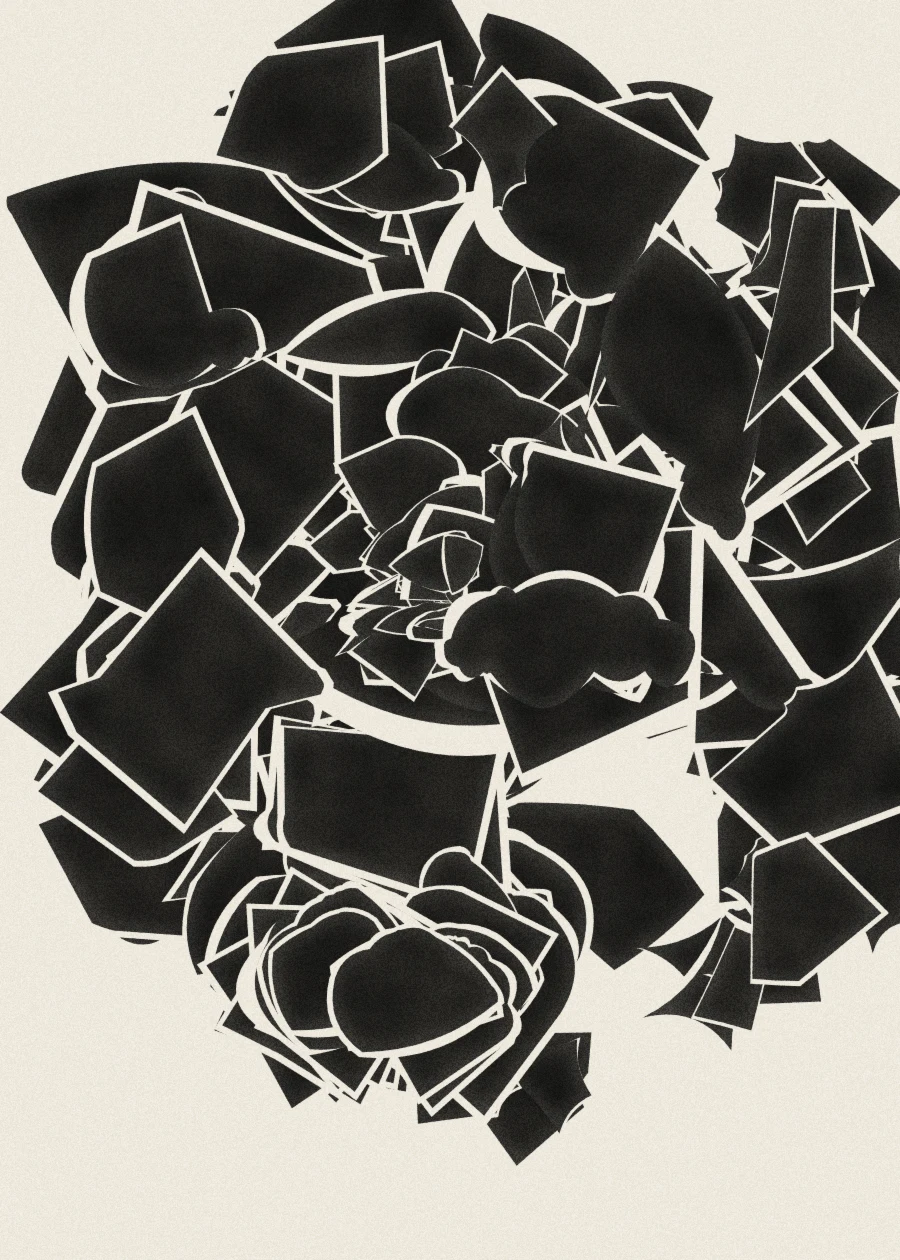
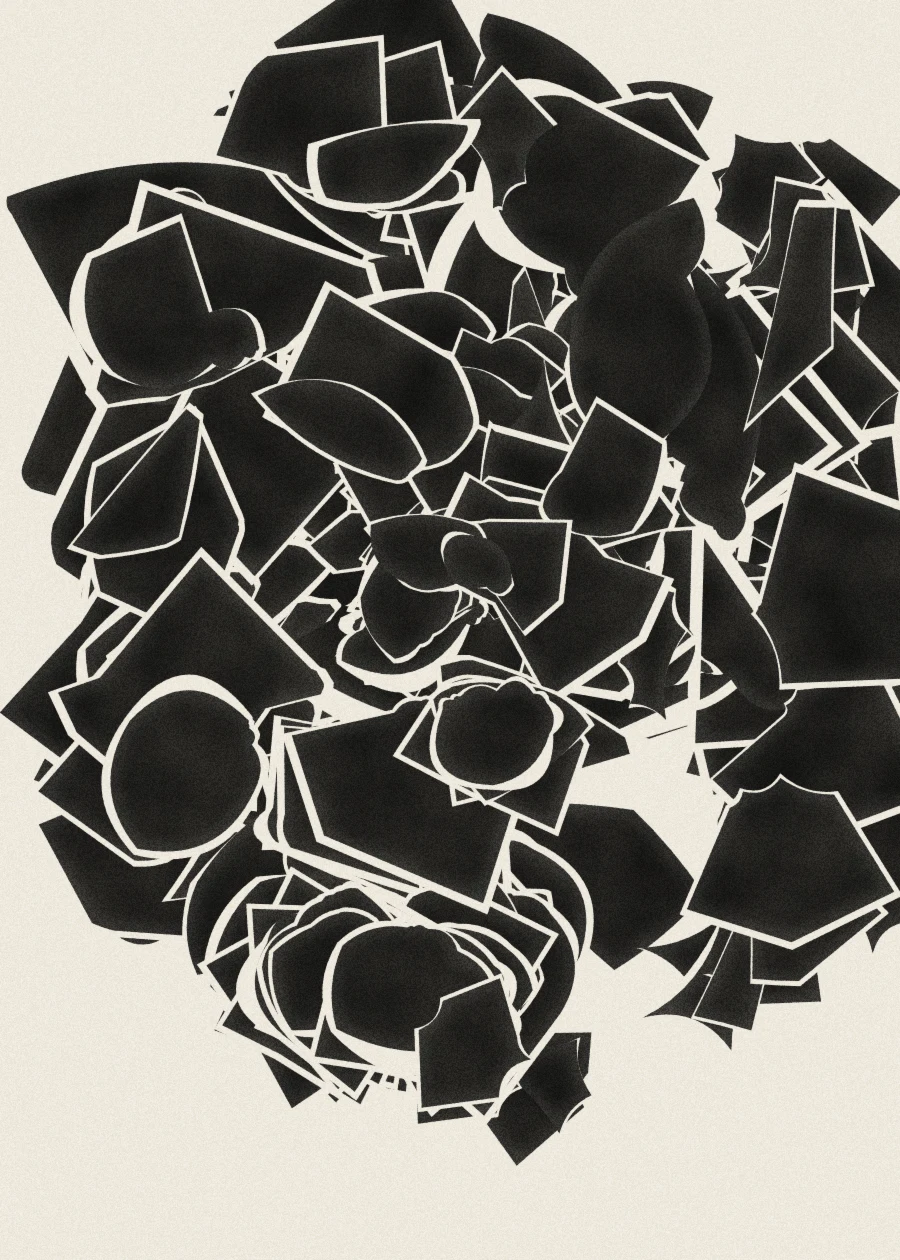
The record of Variation 91 grows with the ring
The sync now asks Oura for two more collections: daily_activity and
daily_stress. The steps are the area of that work's daily form, the seconds
under strain are its sharp points — nothing else on this domain reads them,
so they are treated like daily_spo2: if they fail, allSettled isolates them,
only that work's record waits, and nobody is woken at three in the morning.

The record is built beside the nights and on the same terms. What was
written first stays as written, the live fetch fills what is missing, and a
day hardens only once it is behind us. Nothing is admitted before the record
already begins: a day slipped in under the earliest one would re-cut the
silhouette of every day after it, and a day already painted is never
repainted.

It lives at ARCHIVE_DIR/../days-91.json — written by the server, so it is not
in the history. The copy in data/ is the seed a fresh instance paints from
until its first sync answers.

546 → 584 days; the record now reaches yesterday instead of stopping in June.

diff --git a/server.js b/server.js
@@ -720,10 +720,85 @@ function buildDays(sleepRaw, dailySleep, dailyReady, workoutRaw) {
 // stress — so it does not grow, and nothing here has to watch it.
 function loadRecord91() {
   if (!STATE.days91) {
-    try { STATE.days91 = JSON.parse(fs.readFileSync(path.join(__dirname, 'data', 'days-91.json'), 'utf8')); }
-    catch { STATE.days91 = { days: [], meta: {} }; }
+    const days = record91Read();
+    STATE.days91 = { days, meta: { birth: days[0] && days[0].day, count: days.length,
+                                   last: days[days.length - 1] && days[days.length - 1].day, live: false } };
   }
   return STATE.days91;
+}
+
+// ---------- raw upstream -> the record of Variation 91 ----------
+// That work reads four channels no other one needs: the hour the body fell
+// asleep, how far that hour fell from its own, the day's steps, and the seconds
+// it spent under strain. Two of them come from collections nothing else here
+// asks for, so the record is built and kept apart rather than widening the day
+// every other work reads.
+function buildDays91(sleepRaw, dailySleep, dailyReady, activityRaw, stressRaw) {
+  const dsByDay = Object.fromEntries(dailySleep.map(r => [r.day, r]));
+  const rdByDay = Object.fromEntries(dailyReady.map(r => [r.day, r]));
+  const acByDay = Object.fromEntries((activityRaw || []).map(r => [r.day, r]));
+  const stByDay = Object.fromEntries((stressRaw || []).map(r => [r.day, r]));
+
+  const slByDay = {};
+  for (const s of sleepRaw) {
+    if (s.type !== 'long_sleep' || !s.day || !s.bedtime_start) continue;
+    const cur = slByDay[s.day];
+    if (!cur || (s.total_sleep_duration || 0) > (cur.total_sleep_duration || 0)) slByDay[s.day] = s;
+  }
+
+  const all = [...new Set([...Object.keys(slByDay), ...Object.keys(dsByDay), ...Object.keys(rdByDay)])].sort();
+  const days = [];
+  for (const d of all) {
+    const sl = slByDay[d], ds = dsByDay[d], rd = rdByDay[d], ac = acByDay[d], st = stByDay[d];
+    if (!sl && !rd) continue;
+    let bed = null;
+    if (sl) {
+      // The hour is read where the body slept, not in UTC: falling asleep at one
+      // in the morning is one in the morning wherever the ring was. The evening
+      // is carried into the negative so that midnight is a continuous point and
+      // 23:40 and 00:20 are forty minutes apart, not twenty-three hours.
+      const h = +sl.bedtime_start.slice(11, 13) + +sl.bedtime_start.slice(14, 16) / 60;
+      bed = +(h >= 12 ? h - 24 : h).toFixed(3);
+    }
+    days.push({
+      day: d,
+      hrv:    sl ? sl.average_hrv : null,
+      bed,
+      timing: ds ? ds.contributors.timing : null,
+      steps:  ac ? (ac.steps ?? null) : null,
+      stress: st ? (st.stress_high ?? null) : null,
+      temp:   rd ? rd.temperature_deviation : null,
+    });
+  }
+  return days;
+}
+
+// The growing record lives beside the archive, outside the repository, for the
+// same reason the archive does: it is written by the sync, and a file the
+// server rewrites has no business in a git history. The copy shipped in the
+// repository is the seed — it is what a fresh instance paints from until its
+// first sync answers.
+// Paths, not constants: ARCHIVE_DIR is settled further down the file, and a
+// constant here would read it before it exists.
+const record91Path = () => path.join(path.dirname(ARCHIVE_DIR), 'days-91.json');
+const seed91Path = () => path.join(__dirname, 'data', 'days-91.json');
+
+function record91Read() {
+  for (const f of [record91Path(), seed91Path()]) {
+    try { const d = JSON.parse(fs.readFileSync(f, 'utf8')).days; if (d && d.length) return d; }
+    catch { /* next */ }
+  }
+  return [];
+}
+function record91Write(days, live) {
+  try {
+    fs.mkdirSync(path.dirname(record91Path()), { recursive: true });
+    fs.writeFileSync(record91Path(), JSON.stringify({
+      days,
+      meta: { birth: days[0] && days[0].day, last: days[days.length - 1] && days[days.length - 1].day,
+              live: !!live, count: days.length },
+    }));
+  } catch (e) { console.warn('[91] write skipped:', e.message); }
 }
 
 // ---------- raw upstream -> the night itself ----------
@@ -1027,8 +1102,12 @@ async function sync(opts = {}) {
     // disturbance index is the amplitude of that work's ground grain. It is the
     // least important collection here — if it fails, allSettled isolates it, the
     // index is null, and the grain sits at its floor. Nothing else notices.
-    const COLS = ['sleep', 'daily_sleep', 'daily_readiness', 'workout', 'daily_spo2'];
-    const acc = { sleep: [], daily_sleep: [], daily_readiness: [], workout: [], daily_spo2: [] };
+    // daily_activity and daily_stress joined the list for Variation 91 alone:
+    // the steps are the area of its daily form, the seconds under strain are its
+    // sharp points. Like daily_spo2 they carry one work and nothing else — if
+    // they fail, allSettled isolates them and only that work's record waits.
+    const COLS = ['sleep', 'daily_sleep', 'daily_readiness', 'workout', 'daily_spo2', 'daily_activity', 'daily_stress'];
+    const acc = { sleep: [], daily_sleep: [], daily_readiness: [], workout: [], daily_spo2: [], daily_activity: [], daily_stress: [] };
     const failedCols = new Set();
     let authFailure = null;
     for (const [a, b] of chunks) {
@@ -1093,6 +1172,29 @@ async function sync(opts = {}) {
     }
     STATE.nights = nights;
 
+    // The sheet of Variation 91, on the same terms as the nights: what was
+    // written first stays as written, the live fetch fills what is missing, and
+    // a day is only kept once it is behind us. Nothing is admitted BEFORE the
+    // record already begins — a day slipped in under the earliest one would
+    // re-cut the silhouette of every day after it, and a day already painted is
+    // never repainted.
+    const need91 = ['sleep', 'daily_sleep', 'daily_readiness', 'daily_activity', 'daily_stress'];
+    if (!need91.some(n => failedCols.has(n))) {
+      const written91 = record91Read();
+      const floor91 = written91.length ? written91[0].day : null;
+      const fetched91 = buildDays91(acc.sleep, acc.daily_sleep, acc.daily_readiness,
+                                    acc.daily_activity, acc.daily_stress)
+        .filter(d => d.day < today && (!floor91 || d.day >= floor91));
+      const merged91 = mergeDays(written91, fetched91);
+      if (merged91.length) {
+        if (merged91.length !== written91.length) record91Write(merged91, true);
+        STATE.days91 = { days: merged91, meta: { birth: merged91[0].day, live: true,
+                                                 last: merged91[merged91.length - 1].day, count: merged91.length } };
+        if (merged91.length !== written91.length)
+          console.log(`[91] record grew ${written91.length} → ${merged91.length} days`);
+      }
+    }
+
     setDays(rawDays, emptyAnswer ? STATE.live : true);
     STATE.lastSync = new Date().toISOString();
     STATE.tokenError = false;
@@ -1104,7 +1206,8 @@ async function sync(opts = {}) {
     // daily_spo2 is not load-bearing: losing it costs the grain of one work's
     // ground and nothing else. It must not raise an alarm at three in the
     // morning, or the alarm stops meaning anything.
-    const criticalFailed = [...failedCols].filter(n => n !== 'daily_spo2');
+    const SINGLE_WORK_COLS = new Set(['daily_spo2', 'daily_activity', 'daily_stress']);
+    const criticalFailed = [...failedCols].filter(n => !SINGLE_WORK_COLS.has(n));
     if (criticalFailed.length) reasons.push('collections failed: ' + criticalFailed.join(','));
     if (rawDays.length < STATE.lastKnownGoodCount) reasons.push(`dayCount ${rawDays.length} < known-good ${STATE.lastKnownGoodCount}`);
     else STATE.lastKnownGoodCount = rawDays.length;
